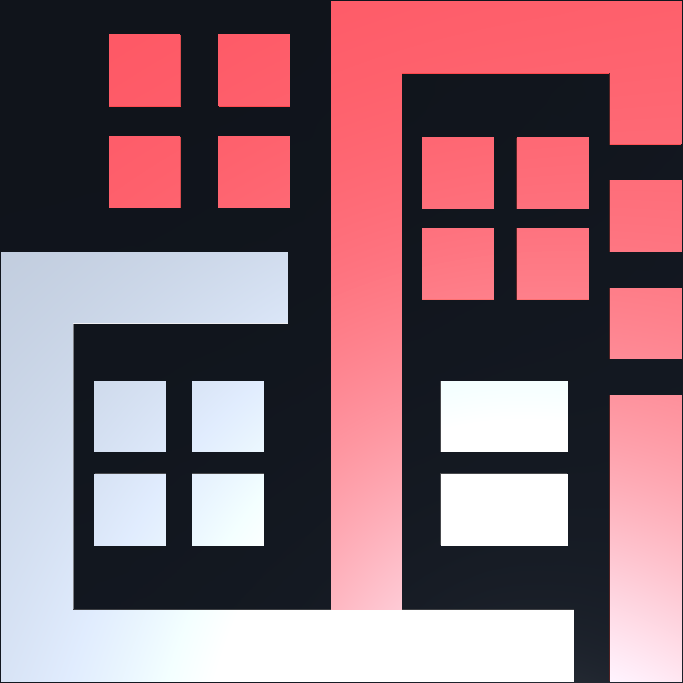
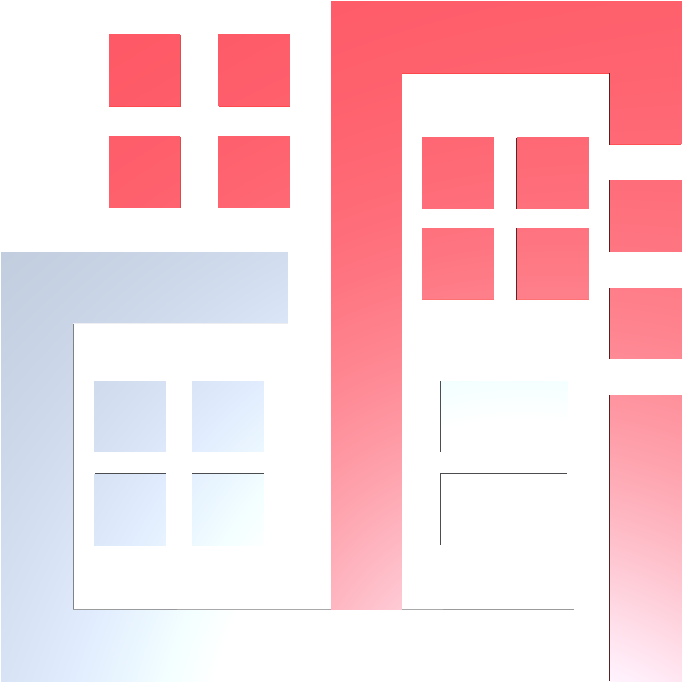
Adds fotter

diff --git a/src/lib/components/Map.svelte b/src/lib/components/Map.svelte
@@ -102,24 +102,25 @@
 </script>
 
 
-  <div class="flex justify-center items-center" bind:this={map_div}>
-    <div style="position:relative">
-    <div class="max-w-full mx-auto p-2 bg-grey text-white rounded-lg shadow-lg border-2 border-black">
-    <Player color="yellow" pos={player_1_position} {x_size} {y_size} radius={24} icon="fa-solid fa-person-rifle"/>
-    <img src="maps/map_1.png" alt="Map" class="rounded-lg" on:click={onMapClick} bind:clientWidth={map_width} bind:clientHeight={map_height}/>
-    {#each zombies_positions as zombie}
-      <Player color="accent" pos={zombie} {x_size} {y_size} radius={24} icon="fa-solid fa-biohazard"/>
-    {/each}
-    {#each bombs_positions as bomb}
-      <Player color="secondary" pos={bomb} {x_size} {y_size} radius={24} icon="fa-solid fa-bomb"/>
-    {/each}
-    {#each enemies_positions as enemy}
-      <Player color="primary" pos={enemy} {x_size} {y_size} radius={24} icon="fa-solid fa-skull"/>
-    {/each}
-  </div>
+<div class="flex m-4 justify-center items-center" bind:this={map_div}>
+  <div style="position:relative">
+    <div class="max-w-full mx-auto text-white rounded-lg shadow-lg border-2 border-black" style="background-color: #0005">
+      <Player color="yellow" pos={player_1_position} {x_size} {y_size} radius={24} icon="fa-solid fa-person-rifle"/>
+      <img src="maps/map_1.png" alt="Map" class="rounded-lg" on:click={onMapClick} bind:clientWidth={map_width} bind:clientHeight={map_height}/>
+      {#each zombies_positions as zombie}
+        <Player color="accent" pos={zombie} {x_size} {y_size} radius={24} icon="fa-solid fa-biohazard"/>
+      {/each}
+      {#each bombs_positions as bomb}
+        <Player color="secondary" pos={bomb} {x_size} {y_size} radius={24} icon="fa-solid fa-bomb"/>
+      {/each}
+      {#each enemies_positions as enemy}
+        <Player color="primary" pos={enemy} {x_size} {y_size} radius={24} icon="fa-solid fa-skull"/>
+      {/each}
+    </div>
   </div>
 </div>
 <br>
+
 
 <ContextMenu
   menuItems={menu_items}

diff --git a/src/routes/+page.svelte b/src/routes/+page.svelte
@@ -146,12 +146,16 @@
   <Map player_1_position={player_1_position} send_item_function={send_item} zombies_positions={zombies_positions} bombs_positions={bombs_positions} enemies_positions={enemies_positions}/>
 {/if}
 
-
-<div class="btm-nav">
+<div class="btm-nav" style="background-color: #0000">
+  <div/>
+  <div class="flex justify-center mb-1">
+    <img src="Logo.png" alt="Logo" class="max-sm object-contain w-32 m-4" />
+  </div>
   <div>
-<hr/>
-<h1>Game State: {connection_state} {simulate_unity}</h1>
-</div>
+    <div class="text-xs text-ghost absolute bottom-0 right-0 pb-2 pr-8">
+      <span class="right-0 align-text-bottom">Created by: Team Circle Square</span>
+  </div>
+    </div>
 </div>
 
 <div class="fullscreen-bg w-full">
